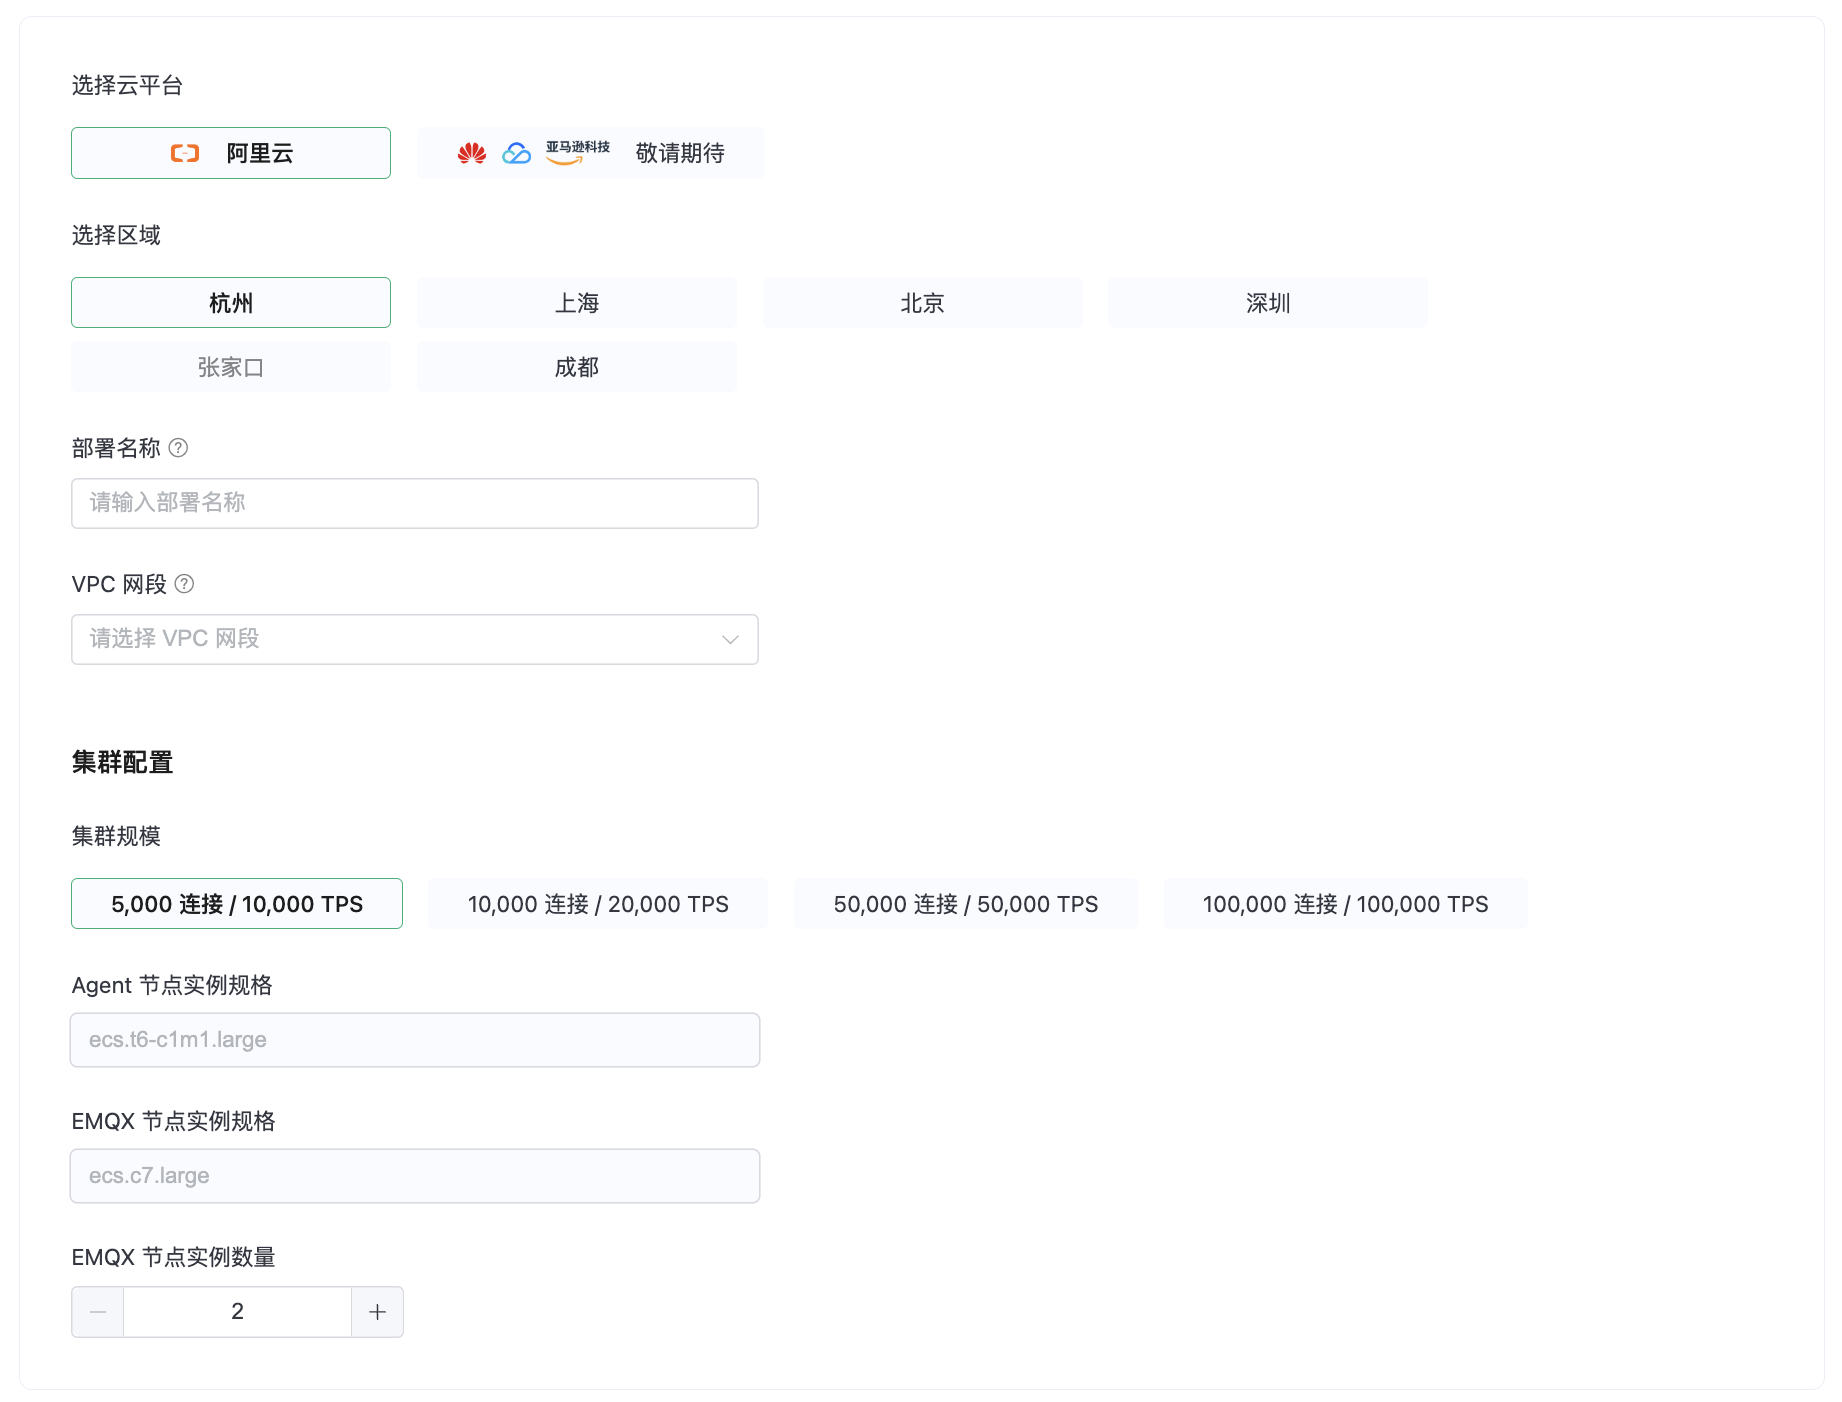
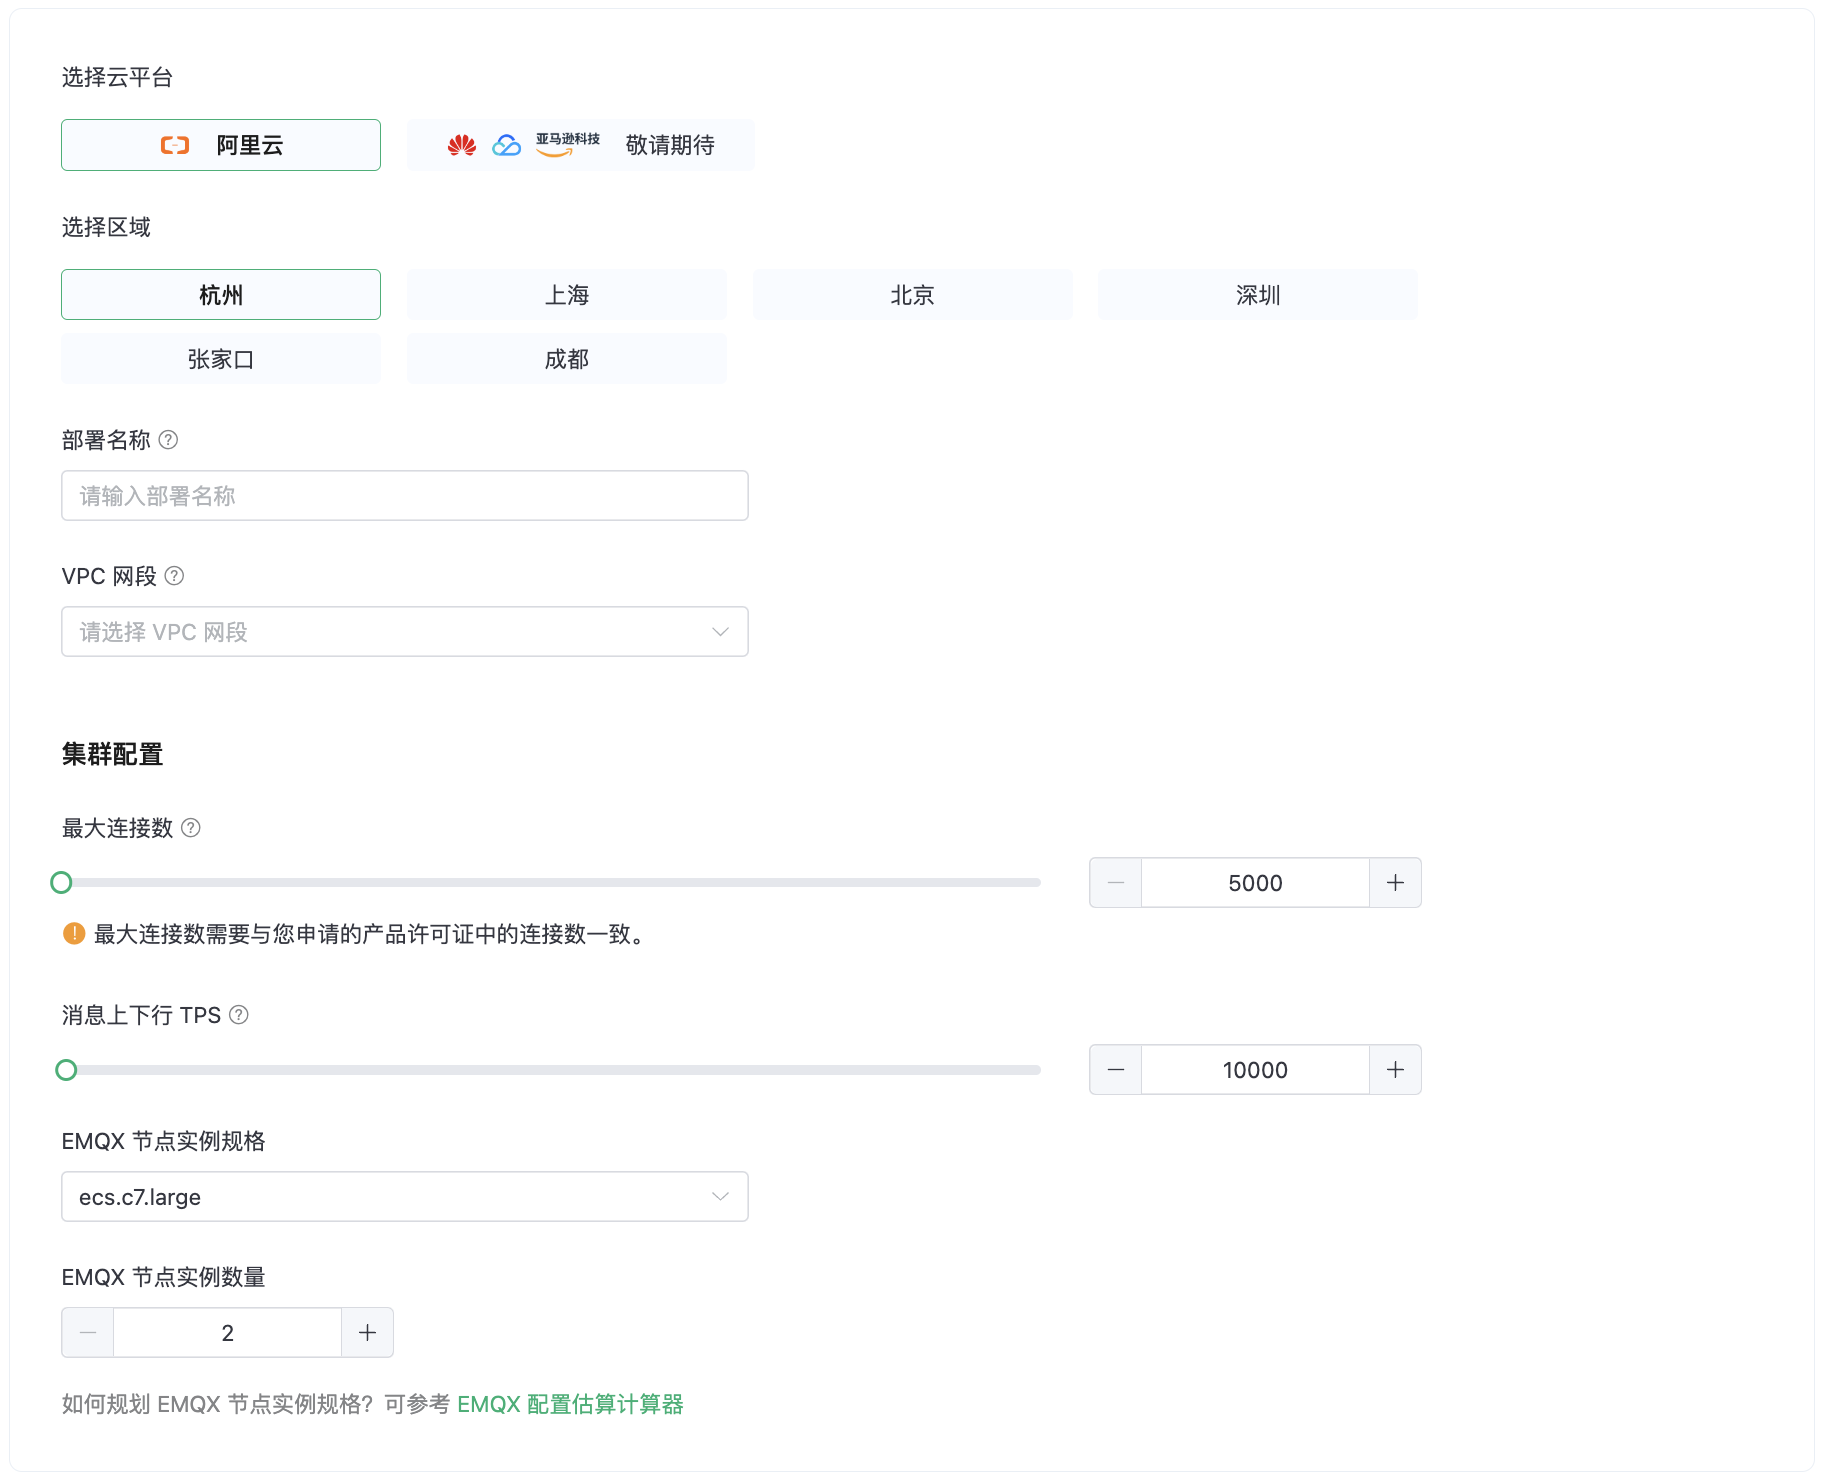
byoc license and customized instance type

diff --git a/zh_CN/create/byoc.md b/zh_CN/create/byoc.md
@@ -33,12 +33,16 @@
    - **VPC 网段**：选择用于创建 VPC 的私网地址范围。
 
    **EMQX 集群相关配置**
+   ::: tip
+   最大连接数需要与您申请的 EMQX Cloud BYOC 许可证保持一致。部署完成后，如需修改相关配置，可通过工单联系我们。
+   :::
+   - **最大连接数**：指定部署集群的 MQTT 设备最大连接数。部署完成后，也可通过工单联系我们进行升降此部署规格。
 
-   - **集群规模**：选择部署集群规模，您可根据设备连接数和消息上下行的每秒事务处理数（TPS）选择合适的集群规模，部署完成后，也可通过升降部署规格修改最大连接数和 TPS 上限。
+   - **消息上下行 TPS**：指定部署集群的消息上下行的每秒事务处理数（TPS）。
 
-     在您选择好集群规模后，系统会自动填入 **Agent 节点实例规格** 和 **EMQX 节点实例规格**，分别用于管理 EMQX 节点，包括收集运行状态、采集日志和数据备份等，以及运行 EMQX 服务。
+   - **EMQX 节点实例规格**：系统将自动根据 **最大连接数** 和 **消息上下行 TPS** 填入推荐的实例规格，您也可以实际业务需求修改实例规格。
 
-   - **EMQX 节点实例数量**：系统将自动根据 **集群规模** 填入推荐的实例数量，您也可以实际业务需求修改节点的数量（2-5 个节点）。
+   - **EMQX 节点实例数量**：系统将自动根据 **最大连接数** 和 **消息上下行 TPS** 填入推荐的实例数量，您也可以实际业务需求修改节点的数量（2-5 个节点）。
 
 5. 点击 **下一步** 进入 **高级配置**，依据您的需求添加云资源标签，便于后续识别和管理，最多支持 10 个标签。
 

diff --git a/zh_CN/deployments/byoc_license.md b/zh_CN/deployments/byoc_license.md
@@ -1,0 +1,28 @@
+# BYOC 许可证
+
+使用 EMQX Cloud BYOC 服务时，您需要向 EMQ 支付订阅费以获取一个正式的 EMQX Cloud BYOC 许可证。如需了解许可证价格详情，请[联系我们](https://www.emqx.com/zh/contact?product=cloud)。
+
+本节主要介绍如何在控制台查看和更新 BYOC 部署的许可证。
+
+## 查看许可证
+
+您可在 Cloud 控制台中，进入 BYOC 部署。在部署概览中，您可以看到许可证的到期时间。在到期时间旁，点击**许可证**图标，查看许可证信息。
+
+许可证信息中包含：
+- 最大连接数
+- 签发对象
+- 签发邮箱
+- 签发时间
+- 到期时间
+
+## 更新许可证
+
+::: tip
+更新许可证仅支持使用 EMQX Cloud BYOC 正式许可证，不支持试用许可证。
+:::
+
+在部署概览中，您可以看到许可证的到期时间。在到期时间旁，点击**编辑**图标，打开更新许可证弹窗。
+
+您也可以在查看许可证信息的弹窗中，点击**更新许可证**，打开更新许可证弹窗。
+
+您可以拖拽许可证文件至文件上传控件区域，或点击文件上传控件，选择文件上传。点击**确认**，完成更新。

diff --git a/zh_CN/price/pricing.md b/zh_CN/price/pricing.md
@@ -1,4 +1,4 @@
-# 产品计费
+p# 产品计费
 
 我们提供了多种灵活的产品规格，支持在全球主流的公有云上部署专属于您的全托管 MQTT 服务。
 
